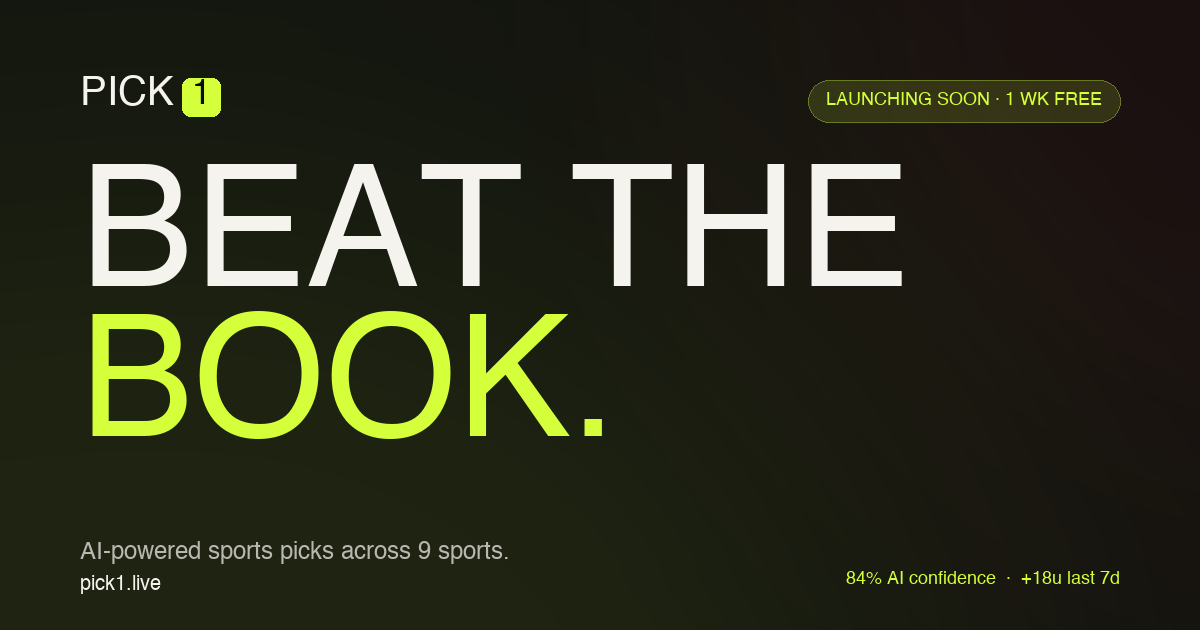
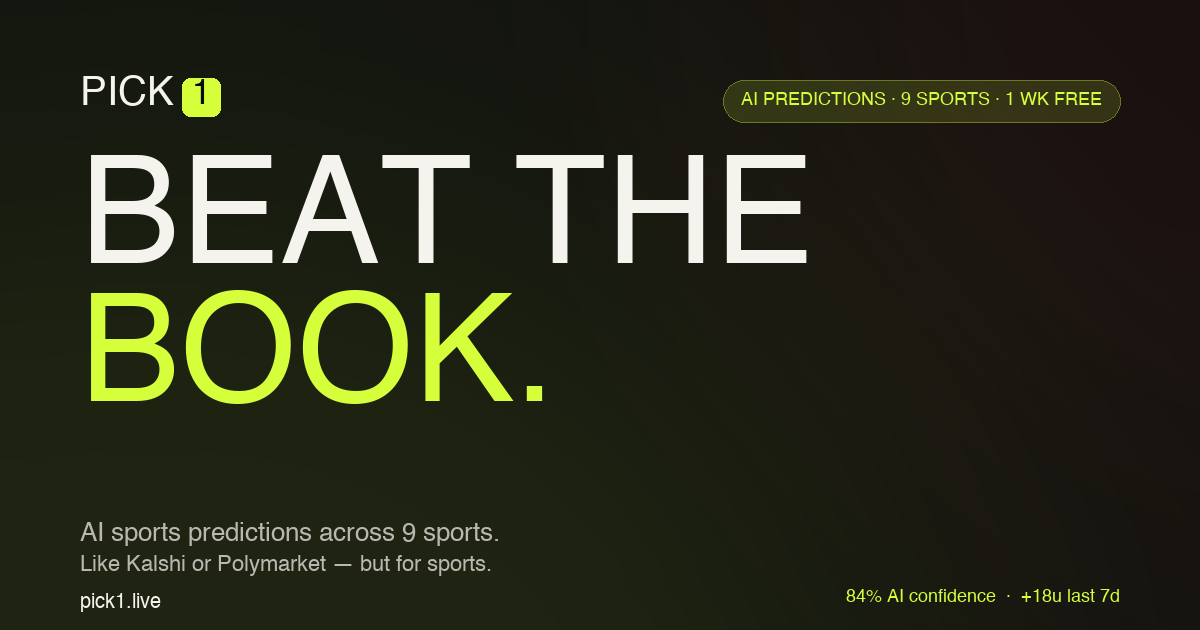
SEO repositioning: AI sports prediction engine (Kalshi/Polymarket framing)
Pick1 isn't a tipster service — it's an AI prediction engine. The
SEO copy now leads with that framing throughout:

Meta tags
─────────
- Title: "Pick1 — AI sports predictions across 9 sports | Beat the Book"
- Meta description: leads with "AI-powered sports predictions for
  NBA, NFL, EPL, MLB, UFC and 4 more. Like Kalshi or Polymarket —
  but for sports, with AI confidence scores from 0–100%, live
  tracking, and public win/loss records."
- Keywords expanded with "sports prediction app", "sports prediction
  engine", "AI sports forecasting", "predictive sports analytics",
  "Kalshi for sports", "Polymarket for sports" — covers both the
  literal product description and the comparison searches users will
  actually run.
- OG/Twitter copy updated to match: "AI predictions for every game
  in 9 sports — like Kalshi or Polymarket, but for sports."

JSON-LD structured data
───────────────────────
- Organization: alternateName "Pick1 AI Sports Predictions" + a
  description that establishes the prediction-engine framing.
- New Service entity: "Pick1 AI Sports Prediction Engine" with
  serviceType, provider, areaServed=Worldwide, audience.
  Includes the "trained on 1.2M+ historical games with daily
  recalibration on closing-line value" credibility signal.
- MobileApplication: applicationSubCategory "Sports prediction &
  analytics", expanded description, featureList (5 capabilities).
- New FAQPage entity with three Q&As (legal, vs tipsters, accuracy)
[…]

diff --git a/index.html b/index.html
@@ -6,34 +6,34 @@
 <meta name="theme-color" content="#0a0b0d" />
 
 <!-- ─── Primary SEO ─────────────────────────────────────── -->
-<title>Pick1 — Beat the Book. AI sports picks across 9 sports.</title>
-<meta name="description" content="AI-powered sports picks across NBA, NFL, EPL, MLB, UFC and 4 more. Confidence scores, live tracking, daily picks. Join the waitlist — 1 week free at launch." />
+<title>Pick1 — AI sports predictions across 9 sports | Beat the Book</title>
+<meta name="description" content="AI-powered sports predictions for NBA, NFL, EPL, MLB, UFC and 4 more. Like Kalshi or Polymarket — but for sports, with AI confidence scores from 0–100%, live tracking, and public win/loss records. Join the waitlist — 1 week free at launch." />
 <link rel="canonical" href="https://pick1.live/" />
 <meta name="robots" content="index, follow, max-image-preview:large" />
 <meta name="author" content="Pick1" />
-<meta name="keywords" content="AI sports picks, sports betting predictions, NBA picks, NFL picks, EPL picks, MLB picks, UFC picks, AI confidence scores, live game tracking, sports analytics" />
+<meta name="keywords" content="AI sports predictions, sports prediction app, sports prediction engine, AI sports forecasting, NBA AI predictions, NFL AI predictions, EPL AI predictions, MLB AI predictions, UFC AI predictions, sports analytics, sports probability, AI confidence scores, live game tracking, predictive sports analytics, machine learning sports, Kalshi for sports, Polymarket for sports" />
 
 <!-- ─── Open Graph (Facebook, LinkedIn, iMessage, Slack, …) ─── -->
 <meta property="og:site_name" content="Pick1" />
 <meta property="og:type" content="website" />
 <meta property="og:url" content="https://pick1.live/" />
-<meta property="og:title" content="Pick1 — Beat the Book. AI sports picks across 9 sports." />
-<meta property="og:description" content="AI-powered sports picks. Confidence scores, live tracking, daily picks. Join the waitlist — 1 week free at launch." />
+<meta property="og:title" content="Pick1 — AI sports predictions. Beat the Book." />
+<meta property="og:description" content="AI-powered predictions for every game in 9 sports. Confidence scores 0–100%, live win-probability tracking, public win/loss record. Like Kalshi or Polymarket — but for sports. Free 1-week trial at launch." />
 <meta property="og:image" content="https://pick1.live/assets/og-image.png" />
 <meta property="og:image:secure_url" content="https://pick1.live/assets/og-image.png" />
 <meta property="og:image:type" content="image/png" />
 <meta property="og:image:width" content="1200" />
 <meta property="og:image:height" content="630" />
-<meta property="og:image:alt" content="Pick1 — Beat the Book. AI-powered sports picks across 9 sports." />
+<meta property="og:image:alt" content="Pick1 — AI sports predictions across 9 sports. Beat the Book." />
 <meta property="og:locale" content="en_US" />
 
 <!-- ─── Twitter Card ───────────────────────────────────── -->
 <meta name="twitter:card" content="summary_large_image" />
 <meta name="twitter:url" content="https://pick1.live/" />
-<meta name="twitter:title" content="Pick1 — Beat the Book." />
-<meta name="twitter:description" content="AI-powered sports picks across 9 sports. Join the waitlist — 1 week free at launch." />
+<meta name="twitter:title" content="Pick1 — AI sports predictions. Beat the Book." />
+<meta name="twitter:description" content="AI predictions for every game in 9 sports — like Kalshi or Polymarket, but for sports. Confidence scores, live tracking, public results. 1 week free at launch." />
 <meta name="twitter:image" content="https://pick1.live/assets/og-image.png" />
-<meta name="twitter:image:alt" content="Pick1 — Beat the Book. AI-powered sports picks across 9 sports." />
+<meta name="twitter:image:alt" content="Pick1 — AI sports predictions across 9 sports. Beat the Book." />
 
 <!-- ─── Favicons + iOS home screen ─────────────────────── -->
 <link rel="icon" type="image/svg+xml" href="/assets/favicon.svg" />
@@ -52,8 +52,10 @@
       "@type": "Organization",
       "@id": "https://pick1.live/#org",
       "name": "Pick1",
+      "alternateName": "Pick1 AI Sports Predictions",
       "url": "https://pick1.live/",
       "logo": "https://pick1.live/assets/apple-touch-icon.png",
+      "description": "AI-powered sports prediction engine — like Kalshi or Polymarket, but for sports. Confidence-scored predictions across 9 sports.",
       "sameAs": []
     },
     {
@@ -61,22 +63,80 @@
       "@id": "https://pick1.live/#website",
       "url": "https://pick1.live/",
       "name": "Pick1",
-      "description": "AI-powered sports picks across 9 sports. Confidence scores, live tracking, daily picks.",
+      "description": "AI-powered sports predictions across 9 sports. Confidence scores from 0–100%, live tracking, daily picks.",
       "publisher": { "@id": "https://pick1.live/#org" },
       "inLanguage": "en"
     },
     {
+      "@type": "Service",
+      "@id": "https://pick1.live/#service",
+      "name": "Pick1 AI Sports Prediction Engine",
+      "serviceType": "Sports prediction service",
+      "provider": { "@id": "https://pick1.live/#org" },
+      "description": "AI-powered sports prediction service that generates confidence-scored picks across NBA, NFL, EPL, MLB, UFC, NHL, F1, tennis and cricket. Trained on 1.2M+ historical games with daily recalibration on closing-line value.",
+      "areaServed": "Worldwide",
+      "audience": {
+        "@type": "Audience",
+        "audienceType": "Sports fans and bettors aged 21+"
+      },
+      "offers": {
+        "@type": "Offer",
+        "price": "0",
+        "priceCurrency": "USD",
+        "description": "1 week free at launch — no credit card required",
+        "availability": "https://schema.org/PreOrder"
+      }
+    },
+    {
       "@type": "MobileApplication",
+      "@id": "https://pick1.live/#app",
       "name": "Pick1",
       "operatingSystem": "iOS, Android",
       "applicationCategory": "SportsApplication",
-      "description": "AI-powered sports picks across NBA, NFL, EPL, MLB, UFC and 4 more sports. Confidence scores, live tracking, daily picks.",
+      "applicationSubCategory": "Sports prediction & analytics",
+      "description": "AI-powered sports predictions across 9 sports — NBA, NFL, EPL, MLB, UFC, NHL, F1, tennis, cricket. Confidence scores from 0–100%, live win-probability tracking, public win/loss record. Like Kalshi or Polymarket, but built for sports.",
+      "featureList": [
+        "AI-driven sports predictions across 9 leagues",
+        "Confidence scores from 0–100% on every pick",
+        "Live win-probability tracking during games",
+        "Public win/loss record — every pick published",
+        "Trained on 1.2M+ historical games"
+      ],
       "offers": {
         "@type": "Offer",
         "price": "0",
         "priceCurrency": "USD",
         "description": "1 week free at launch"
       }
+    },
+    {
+      "@type": "FAQPage",
+      "mainEntity": [
+        {
+          "@type": "Question",
+          "name": "Is this legal?",
+          "acceptedAnswer": {
+            "@type": "Answer",
+            "text": "Pick1 provides AI-driven sports analysis and predictions. We don't take or place bets — we just show you what the model thinks. You bet (or don't) on whatever sportsbook is legal in your jurisdiction. Must be 21+."
+          }
+        },
+        {
+          "@type": "Question",
+          "name": "How is this different from a tipster on Telegram?",
+          "acceptedAnswer": {
+            "@type": "Answer",
+            "text": "Three things: (1) every pick is published — wins and losses, no cherry-picking; (2) it's an AI model trained on 1.2M historical games, not someone's gut; (3) you get unlimited predictions across 9 sports for $39.99/mo, not $200+ for one sport."
+          }
+        },
+        {
+          "@type": "Question",
+          "name": "How accurate is the AI?",
+          "acceptedAnswer": {
+            "@type": "Answer",
+            "text": "72% hit rate over the last 30 days, +3.8% average closing-line value (CLV), and +18.4 units up over the last 7 days at -110 odds. Full live ledger is in the app — every pick, every result, no edits."
+          }
+        }
+      ]
     }
   ]
 }
@@ -1528,7 +1588,7 @@ h2.display { font-size: clamp(40px, 5.5vw, 76px); }
   <div class="hero-text">
     <div class="kicker live" data-reveal data-reveal-delay="1"><span class="dot"></span> LAUNCHING SOON · 1 WEEK FREE</div>
     <h1 class="display" data-reveal data-reveal-delay="2">BEAT THE <em>BOOK.</em></h1>
-    <p class="lead" data-reveal data-reveal-delay="3">AI-powered picks across NBA, NFL, EPL, MLB, UFC and more. Sign up below — be first in line when Pick1 launches and we'll WhatsApp your <em style="font-style:normal;color:var(--accent)">free-week code</em>.</p>
+    <p class="lead" data-reveal data-reveal-delay="3">AI-powered predictions for every game in 9 sports — confidence-scored, live-tracked, publicly logged. Like Kalshi or Polymarket, but built for sports. Sign up — we'll WhatsApp your <em style="font-style:normal;color:var(--accent)">free-week code</em> at launch.</p>
 
     <div class="waitlist-wrap" data-reveal data-reveal-delay="4">
       <form class="waitlist-form" data-source="hero" novalidate>
